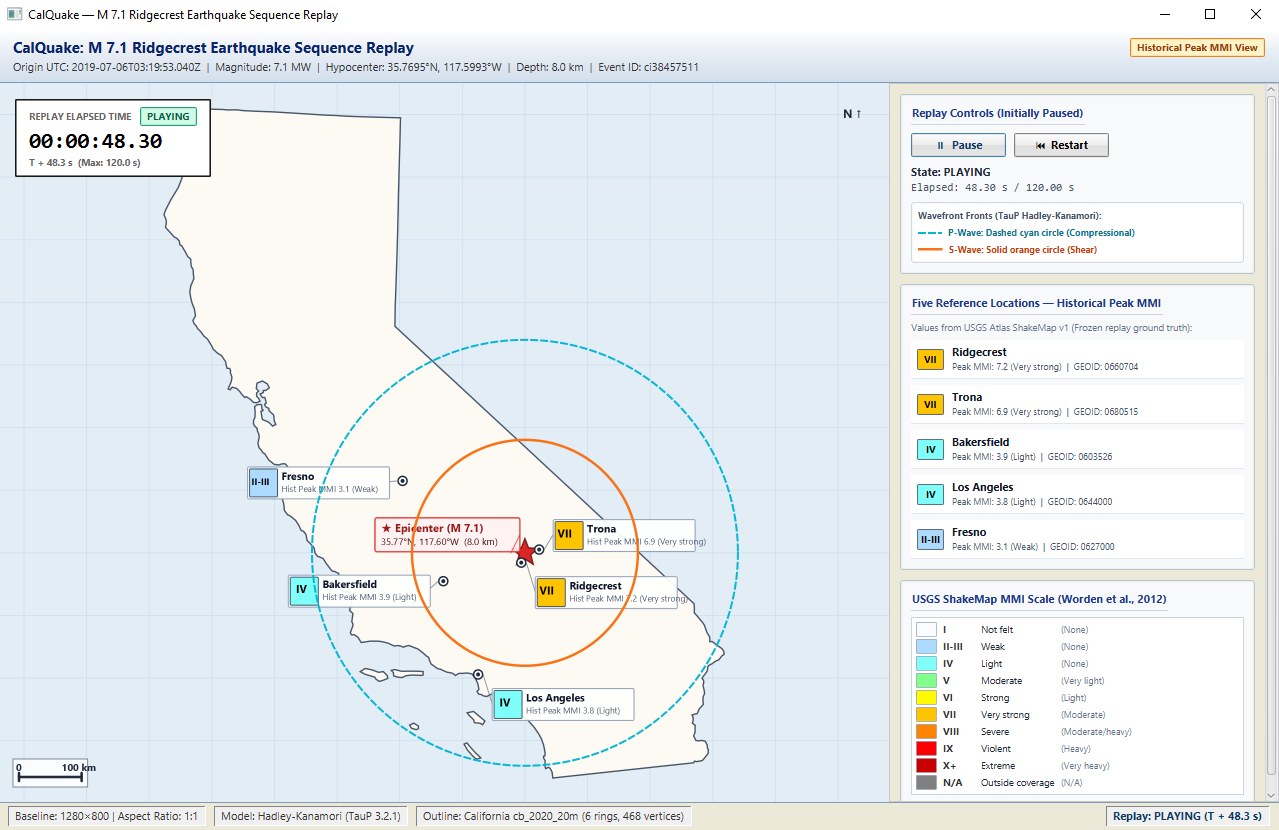
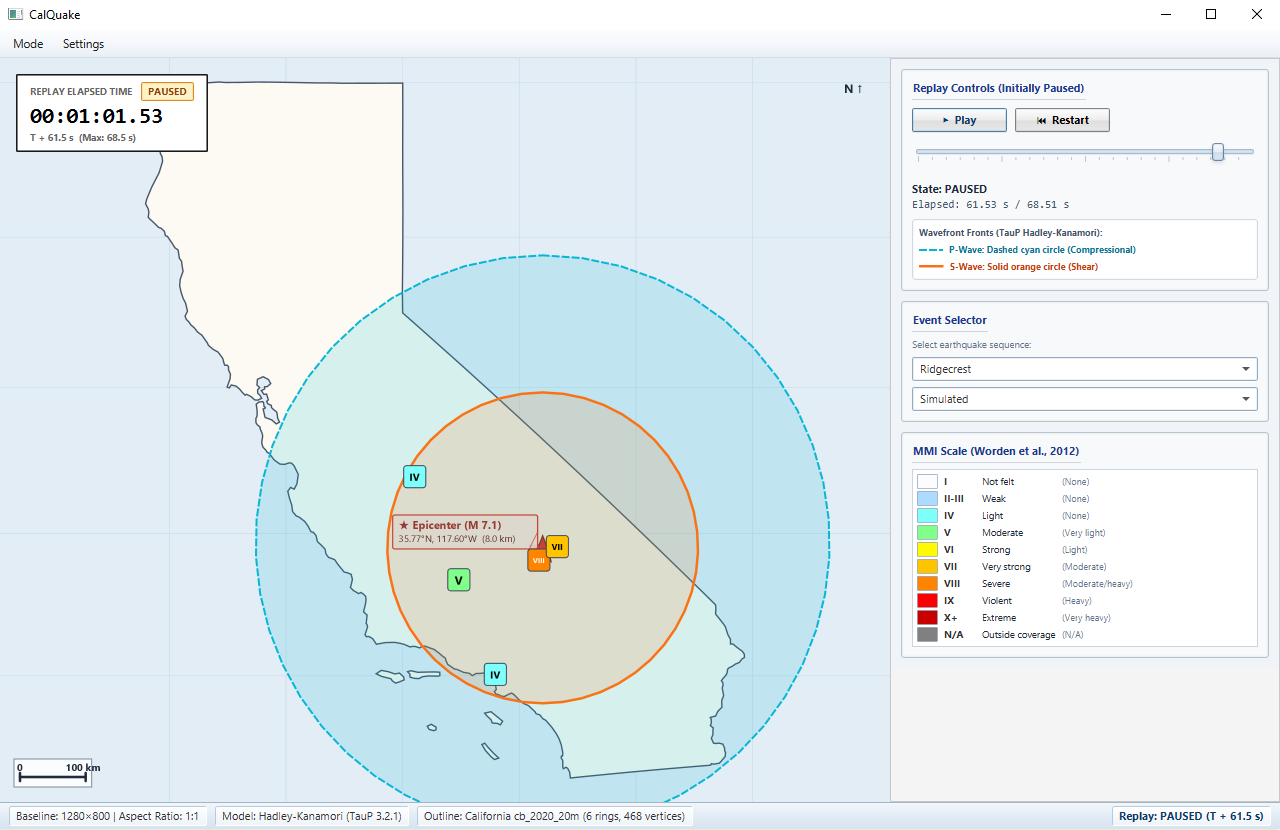
update readme

diff --git a/README.md b/README.md
@@ -23,6 +23,12 @@ The application features:
 - **Geodetic Accuracy:** Standard conformal Mercator projection on a reference 6,371 km sphere ensuring static state boundaries, true vertical orientation, and exact physical geodesic wavefront modeling.
 - **Self-Contained & Offline:** Live preparation and playback are Java-only, use bundled resources, and perform no network or Python work.
 
+## Simulation Details
+
+Simulated mode calculates deterministic median PGV for each site with the base/no-basin BSSA14 model using event magnitude, fault mechanism, finite-rupture Rjb, and Vs30. TauP supplies the P- and S-wave arrival times. CalQuake then applies its documented magnitude-, distance-, and Vs30-dependent P/S envelope, normalizes the combined shape once to the BSSA14 peak, and converts the running peak PGV to MMI with Worden et al. (2012). Historical MMI, PGA, and PGV values are kept as evaluation references and are not predictor inputs.
+
+The envelope is an intentionally scoped, deterministic approximation inspired by the phase-separated structure of Cua and Heaton (2009); its timing equations are CalQuake-specific rather than a verbatim port or a waveform-derived result. Consequently, the final peak prediction follows the pinned BSSA14/Worden pipeline, while the displayed time development should be interpreted as an illustrative model estimate—not a fully validated reconstruction of real shaking. CalQuake deliberately does not attempt computationally heavy 3D Earth, regional wave-propagation, or waveform simulation.
+
 ---
 
 ## Prerequisites & Environment
